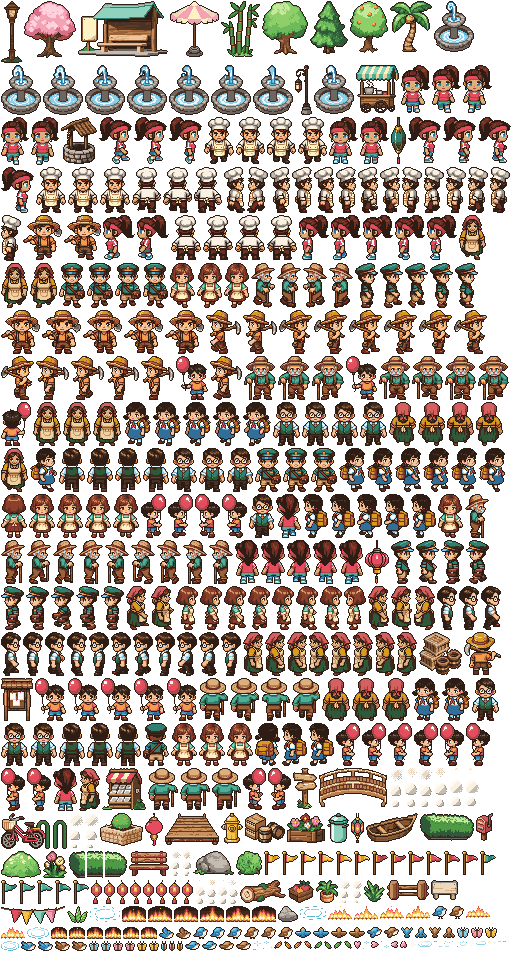
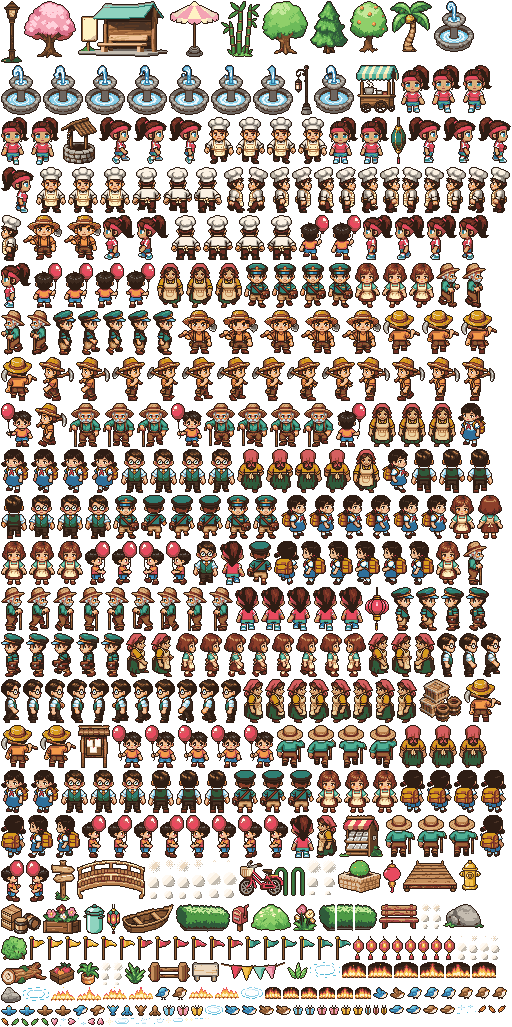
Phố 16-bit: final art rebuild, cobblestone street, props per place
Rebuilt the atlas with every approved package (all 21 buildings and their
Sắp mở variants from the bldg-6 lock recipe, 10 villagers with 4-direction
walks, props-1..3, ambient-1/2, the 14-set terrain). NPCs from several packages
merge into one character, anchored at the cell centre as the NPC reports say.
The road is now cobblestone with the plaza and through-paths paved to match
(no three-terrain Wang junctions), yards get a prop that suits each place,
and a rowboat floats on the pond. Hooks: kitchen/forge/home smoke, factory
large smoke, forge flames, trophy glint, off-centre doors for clinic,
kitchen and boba.

Claude-Session: https://claude.ai/code/session_01DxEmdZRhcaDqnLrKMjp37c

diff --git a/public/ta-tua/game/js/town16.js b/public/ta-tua/game/js/town16.js
@@ -203,7 +203,7 @@ function drawTerrain(A, ter, g) {
       g.drawImage(spr.img, spr.sx + tx - spr.ox, spr.sy + ty - spr.oy, T, T, x * T, y * T, T, T);
     }
   }
-  if (missing.length) console.debug('Phố 16-bit: thiếu ô Wang', missing.slice(0, 12));
+  if (missing.length) console.debug('Phố 16-bit: thiếu ô Wang', missing.length, missing.slice(0, 12).join(' '));
 }
 
 // ---------------------------------------------------------------- bố cục phố
@@ -257,7 +257,10 @@ function layout(A, places, art) {
   const cols = W / T;
   const ter = makeTerrain(A, cols, Math.ceil(H / T));
   const lastV = ter.rows;
-  for (let y = roadV; y <= roadV + 2; y++) for (let x = 0; x <= cols; x++) ter.set(x, y, 'p');
+  // Mặt phố lát đá cuội nếu gói địa hình có đủ cặp nối (cỏ–cuội, đất–cuội); không thì đường đất như phố mẫu.
+  const has = (a, b) => Object.values(A.data.terrain).some((t) => [t.lower, t.upper].sort().join('') === [a, b].sort().join(''));
+  const ROAD = has('g', 'c') && has('p', 'c') ? 'c' : 'p';
+  for (let y = roadV; y <= roadV + 2; y++) for (let x = 0; x <= cols; x++) ter.set(x, y, ROAD);
 
   const buildings = [];
   const statics = []; // { sprite, x, y, flip?, shadow?: [rx, ry] }
@@ -267,7 +270,7 @@ function layout(A, places, art) {
   const put = (name, x, y, opts = {}) => {
     const sprite = typeof name === 'string' ? prop(name) : name;
     if (!sprite) return null;
-    const s = { name, sprite, x: Math.round(x), y: Math.round(y), shadow: opts.shadow ?? [Math.max(4, Math.round(sprite.w / 2.4)), 2], flip: opts.flip };
+    const s = { name, sprite, x: Math.round(x), y: Math.round(y), shadow: 'shadow' in opts ? opts.shadow : [Math.max(4, Math.round(sprite.w / 2.4)), 2], flip: opts.flip };
     statics.push(s);
     return s;
   };
@@ -284,6 +287,9 @@ function layout(A, places, art) {
   const trees = props('tree').filter((n) => !/palm|bamboo/.test(n));
   const lamps = props('lamp');
   const lamp = lamps.includes('lamp') ? 'lamp' : lamps[0];
+  // Đồ trước sân hợp với từng nơi (nếu gói đạo cụ có), còn lại chọn ngẫu nhiên theo hạt giống cố định.
+  const YARD = { home: 'hydrant', shop: 'flowerbed', jobs: 'notice-board', bank: 'flowerbed', market: 'crates-barrels', news: 'newsstand', townhall: 'planter', school: 'bikerack', clinic: 'potted-plant', garden: 'well', bazaar: 'market-umbrella', boba: 'food-cart', factory: 'crates-barrels-tall', forge: 'crate', matshop: 'crates-barrels', arcade: 'flowers' };
+  const yardProp = (id) => (A.data.props[YARD[id]] ? YARD[id] : null);
 
   // ---- dãy trên (hàng 0): cửa nhìn ra đường
   for (const [i, it] of rowItems[0].entries()) {
@@ -291,7 +297,8 @@ function layout(A, places, art) {
       const x0 = Math.round(it.x0 / T) + 1;
       const x1 = Math.round((it.x0 + it.w) / T) - 1;
       const y0 = Math.max(1, roadV - 6);
-      for (let y = y0; y < roadV; y++) for (let x = x0; x <= x1; x++) ter.set(x, y, 'p');
+      // nền quảng trường cùng chất liệu với mặt phố (bộ Wang chỉ ghép 2 địa hình mỗi ô: tránh ngã ba cỏ–đất–cuội)
+      for (let y = y0; y < roadV; y++) for (let x = x0; x <= x1; x++) ter.set(x, y, ROAD);
       for (let y = y0 + 1; y < roadV - 1; y++) for (let x = x0 + 1; x <= x1 - 1; x++) ter.set(x, y, 's');
       const fy = Math.round(((y0 + roadV - 1) / 2) * T + 24);
       if (fxDef('fountain')) fx.push({ kind: 'fountain', x: it.cx, y: fy, def: fxDef('fountain'), shadow: [19, 4] });
@@ -316,11 +323,11 @@ function layout(A, places, art) {
     const b = { place: it.place, art: it.art, x: it.cx, y: B0, row: 0, hooks: it.art.real ? A.data.buildings[it.place.id]?.hooks : null };
     buildings.push(b);
     const door = Math.round(doorX(it, B0) / T - 0.5);
-    for (let y = Math.floor(B0 / T) - 1; y < roadV; y++) { ter.set(door, y, 'p'); ter.set(door + 1, y, 'p'); }
+    for (let y = Math.floor(B0 / T) - 1; y < roadV; y++) { ter.set(door, y, ROAD); ter.set(door + 1, y, ROAD); }
     const left = (door - 0.5) * T;
     const right = (door + 1.5) * T;
     put('sign', left - 18, B0 + 10);
-    put(i % 3 === 1 ? 'flowerbed' : pick(yardKinds, rand), right + 18, B0 + 9);
+    put(yardProp(it.place.id) ?? (i % 3 === 1 ? 'flowerbed' : pick(yardKinds, rand)), right + 18, B0 + 9);
     if (i % 2 === 0) put(lamp, it.x0 + it.w, roadTop + 6, { shadow: [5, 2] });
     else put(pick(bushes, rand), it.x0 + it.w, B0 - 1);
   }
@@ -357,6 +364,11 @@ function layout(A, places, art) {
       }
       put(pick(props('rock'), rand) ?? 'crate', it.x0 + 14, roadBottom + 18);
       put('log', it.x0 + it.w - 22, roadBottom + 20);
+      // thuyền con trên mặt hồ (đặt trên vùng nước thuần, không bóng đổ)
+      if (spots.length && prop('rowboat')) {
+        const [bx, by] = spots[Math.floor(spots.length / 2)];
+        put('rowboat', bx, by + 8, { shadow: null });
+      }
       put(trees.find((n) => /cherry/.test(n)) ?? trees[0], it.x0 + it.w - 6, H + 2, { shadow: [16, 3] });
       if (fxDef('bird-hop-sparrow')) fx.push({ kind: 'loop', def: fxDef('bird-hop-sparrow'), x: it.x0 + 34, y: roadBottom + 16, z: roadBottom + 16 });
       continue;
@@ -366,12 +378,16 @@ function layout(A, places, art) {
     buildings.push(b);
     const door = Math.round(doorX(it, B1) / T - 0.5);
     // cổng vòm (lòng trong suốt): lối đất chạy xuyên từ đường xuống
-    const from = hooks?.through ? roadV + 2 : Math.floor(B1 / T);
-    for (let y = from; y <= lastV; y++) { ter.set(door, y, 'p'); ter.set(door + 1, y, 'p'); }
+    // lối nối thẳng ra phố (qua cổng vòm) lát cùng chất liệu mặt phố; lối cụt trước cửa là đất
+    const through = !!hooks?.through;
+    for (let y = through ? roadV + 2 : Math.floor(B1 / T); y <= lastV; y++) {
+      ter.set(door, y, through ? ROAD : 'p');
+      ter.set(door + 1, y, through ? ROAD : 'p');
+    }
     const left = (door - 0.5) * T;
     const right = (door + 1.5) * T;
     put(i % 2 ? pick(bushes, rand) : 'flowerbed', left - 18, H - 1);
-    put(i % 2 ? 'flowerbed' : pick(props('flower').concat(bushes), rand), right + 18, H - 1);
+    put(yardProp(it.place.id) ?? (i % 2 ? 'flowerbed' : pick(props('flower').concat(bushes), rand)), right + 18, H - 1);
     if (i % 2 === 1) put(lamp, it.x0 + it.w, roadBottom + 4, { shadow: [5, 2] });
     else put(pick(bushes.concat(props('flower')), rand), it.x0 + it.w, roadBottom + 14);
     if (it.place.id === 'colosseum' && it.place.unlocked) {

diff --git a/scripts/art/build-town.py b/scripts/art/build-town.py
@@ -366,12 +366,21 @@ WALK_RE = re.compile(r'(?:^|[-_/])(south|east|north|west)[-_/](\d+)$')
 
 
 def add_npc(cid, pkg, idle, walk, idle_anim, entries=()):
-    """idle: {dir: path}; walk / idle_anim: {dir: [path...]}. Neo của mỗi chuỗi = bbox khung 0."""
-    n = {'package': pkg, 'idle': {}, 'walk': {}, 'idleAnim': {}}
+    """idle: {dir: path}; walk / idle_anim: {dir: [path...]}.
+    Neo chân = giữa ô (48×48 đứng → x 24, 64×64 đi → x 32) và đáy bbox khung 0 (46 / 54), như báo cáo các gói NPC."""
+    # Cùng một nhân vật ở gói sau (vd npc-3 thêm "thở" cho dân làng P0): chỉ bổ sung hướng/chuỗi còn thiếu.
+    old = meta['npcs'].get(cid)
+    n = old or {'package': pkg, 'idle': {}, 'walk': {}, 'idleAnim': {}}
+    if old:
+        n['package'] = f"{old['package']}+{pkg}"
+        idle = {d: p for d, p in idle.items() if d not in old['idle']}
+        walk = {d: v for d, v in walk.items() if d not in old['walk']}
+        idle_anim = {d: v for d, v in idle_anim.items() if d not in old['idleAnim']}
+    anchor_of = lambda img: [img.width / 2, (img.getbbox() or (0, 0, 0, img.height))[3]]
     for d, path in idle.items():
         img = Image.open(path)
         add_frame(f'npc-{cid}-{d}', img, rel(path), 'sprites')
-        n['idle'][d] = {'frame': f'npc-{cid}-{d}', 'anchor': bbox_anchor(img)}
+        n['idle'][d] = {'frame': f'npc-{cid}-{d}', 'anchor': anchor_of(img)}
     for key, seqs, out in (('walk', walk, n['walk']), ('idle', idle_anim, n['idleAnim'])):
         for d, paths in seqs.items():
             if not paths:
@@ -380,7 +389,7 @@ def add_npc(cid, pkg, idle, walk, idle_anim, entries=()):
             for i, path in enumerate(paths):
                 img = Image.open(path)
                 if i == 0:
-                    anchor = bbox_anchor(img)
+                    anchor = anchor_of(img)
                 add_frame(f'npc-{cid}-{key}-{d}-{i}', img, rel(path), 'sprites')
                 frames.append(f'npc-{cid}-{key}-{d}-{i}')
             out[d] = {'frames': frames, 'anchor': anchor}
@@ -429,8 +438,6 @@ for pkg in sorted(d for d in os.listdir(P1) if d.startswith('npc-')):
         if os.path.isdir(cdir) and not c.startswith('_'):
             idle, walk, ianim = scan_char(cdir)
             cid = re.sub(r'[^a-z0-9]+', '-', c.lower()).strip('-')
-            if cid in meta['npcs']:
-                cid = f'{cid}-{pkg}'
             add_npc(cid, pkg, idle, walk, ianim)
 found_report.append('NPC: ' + ', '.join(f'{k}(đi: {"/".join(v["walk"]) or "-"})' for k, v in meta['npcs'].items()))
 
